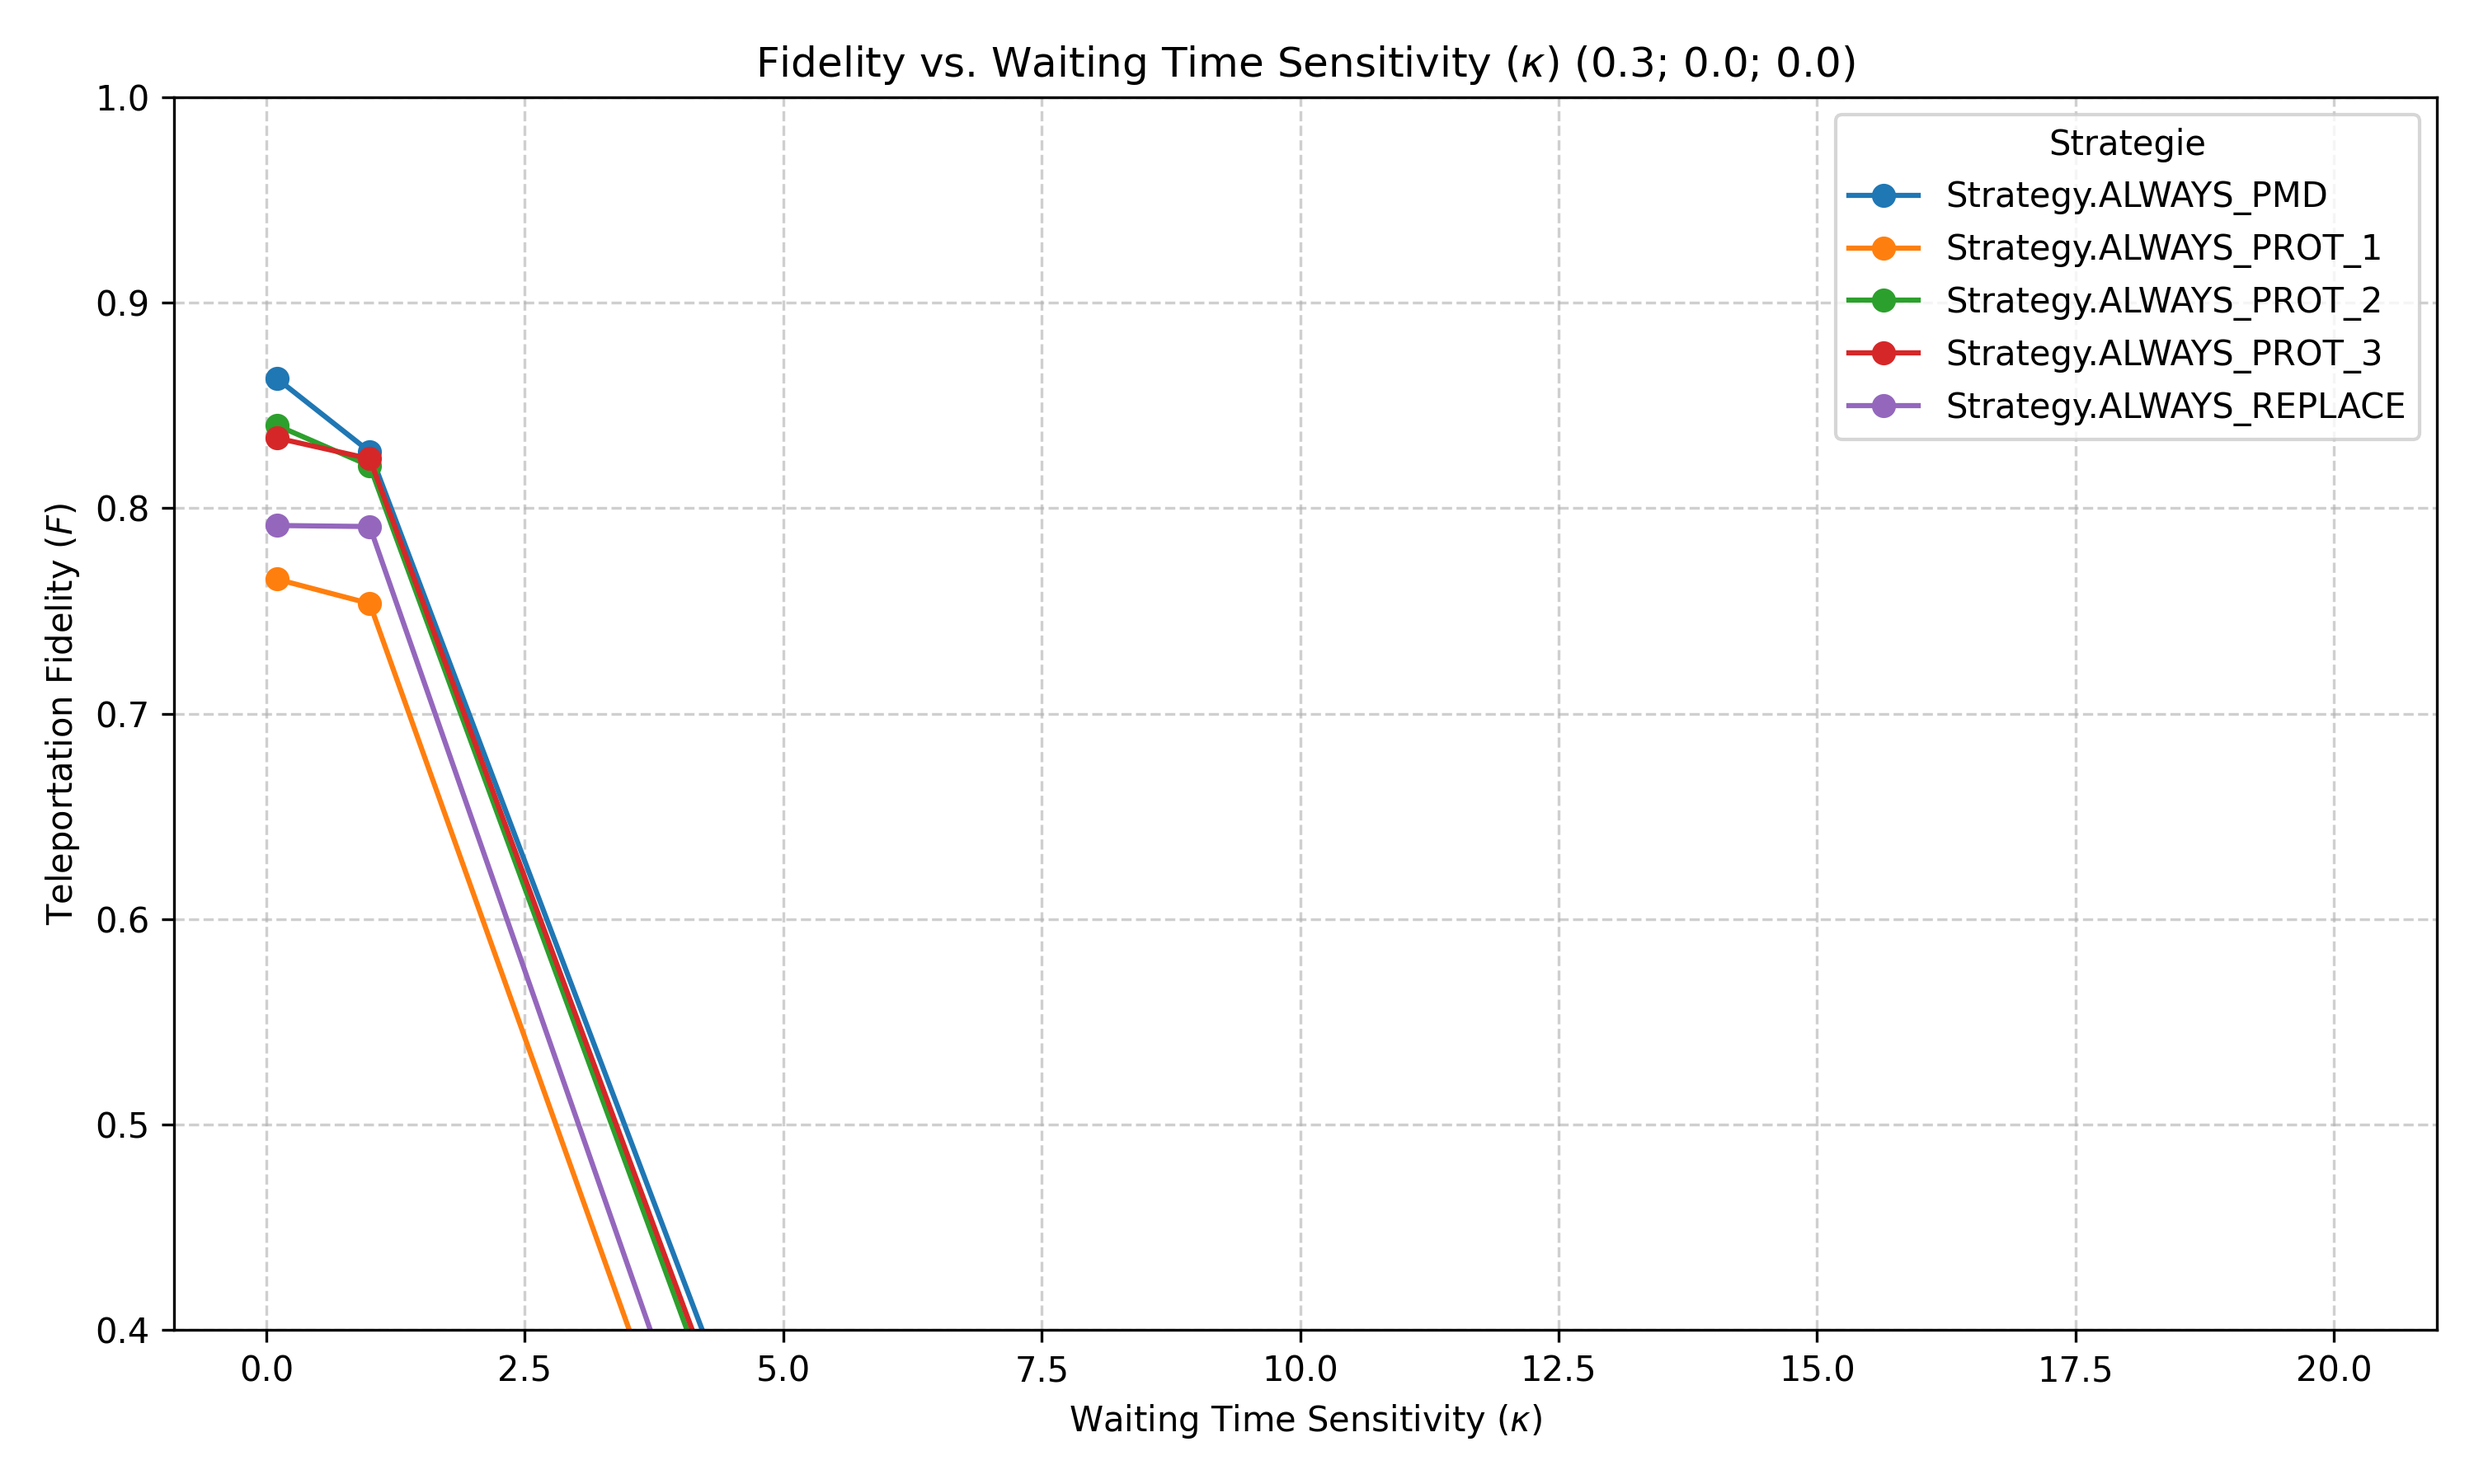
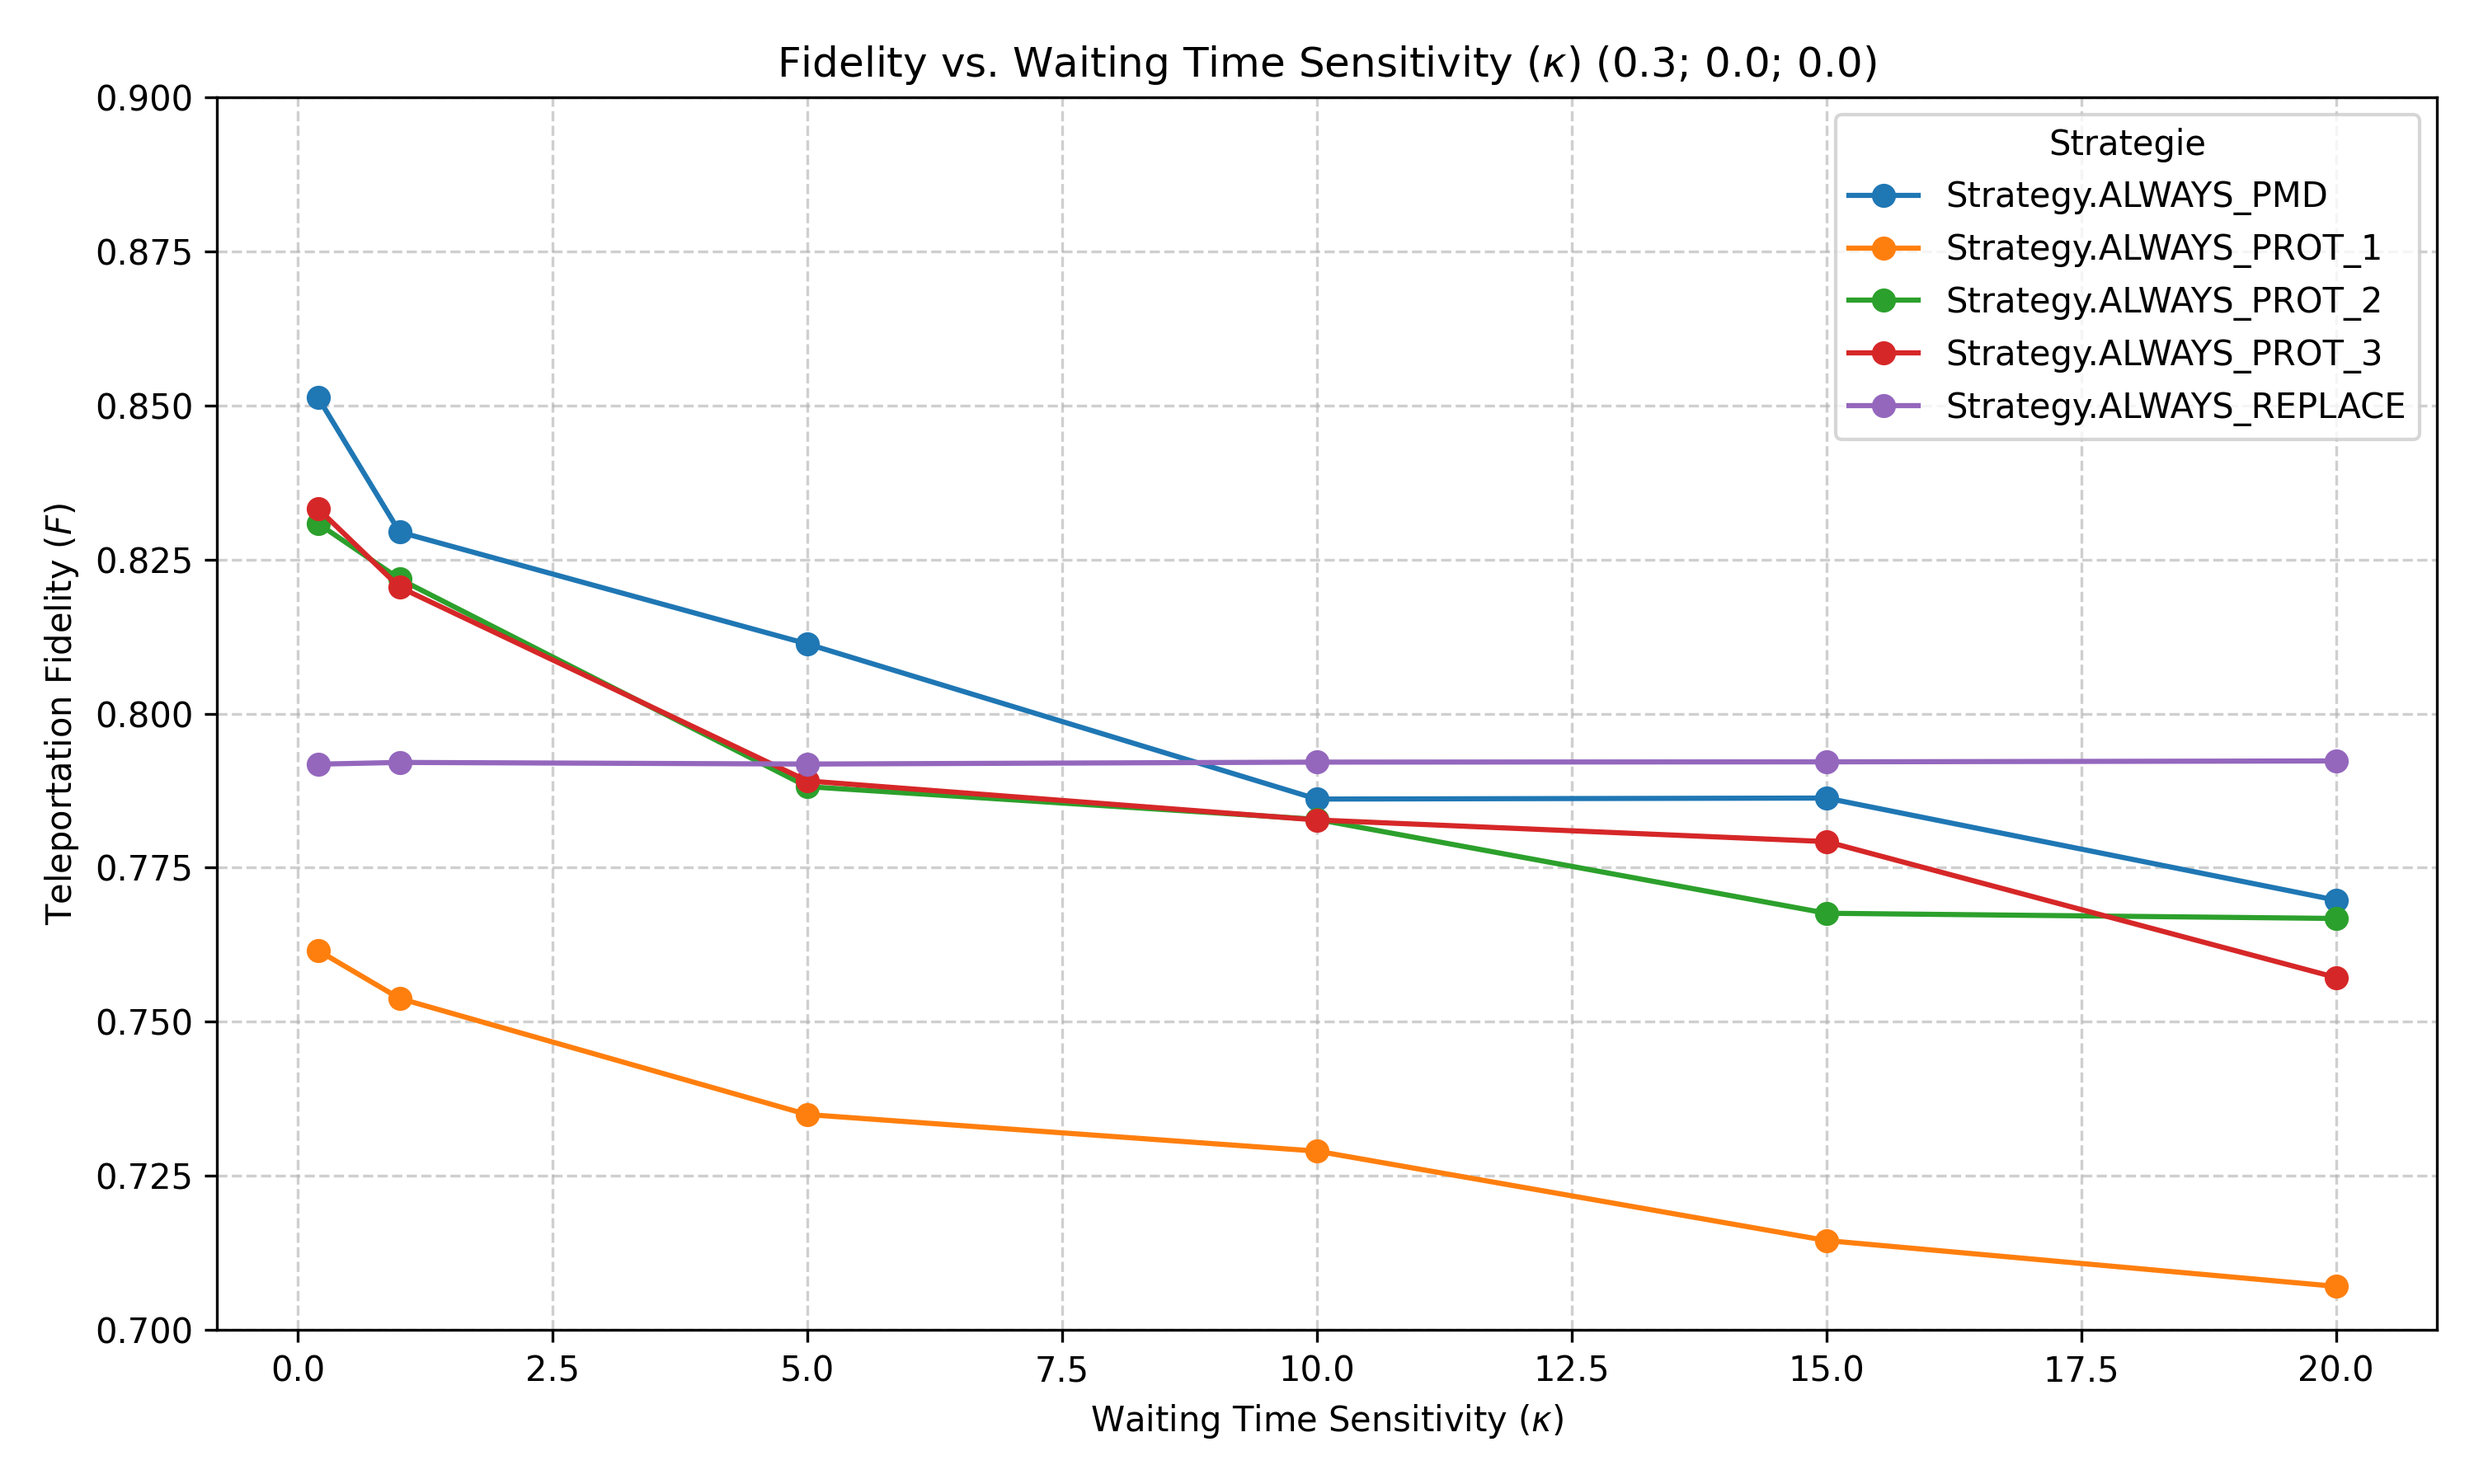
changed how waiting_time sensitivity is implemented

diff --git a/src/purify/my_constants.py b/src/purify/my_constants.py
@@ -1,8 +1,7 @@
-import math
-from purify.my_enums import Strategy
-from purify.utils.decibel_util import decibel_to_linear
 
-ENTANGLEMENT_GENERATION_COUNT = 100000
+from purify.my_enums import Strategy
+
+ENTANGLEMENT_GENERATION_COUNT = 500000
 
 LENGTH = 20000
 C = 2e8
@@ -17,24 +16,22 @@ ETA = -0.00015
 
 # P_G = decibel_to_linear(ETA * LENGTH)
 
-
-
 QUBIT_ENTANGLEMENT_FACTOR = 100
 
 QUBIT_ARRIVAL_SCALE = P_G/(QUBIT_ENTANGLEMENT_FACTOR * DELTA_T)
 
 
 WAITING_TIME_SENSIVITIES = [
-    0.1,
+    0.2,
     1,
     5,
     10,
     15,
-    20,
+    20
 ]
 
-LAMBDA_1 = 0.3
-LAMBDA_2 = 0.0
+LAMBDA_1 = 0.0
+LAMBDA_2 = 0.3
 LAMBDA_3 = 0.0
 
 
@@ -44,7 +41,7 @@ STRATEGIES = [
         Strategy.ALWAYS_PROT_1,
         Strategy.ALWAYS_PROT_2,
         Strategy.ALWAYS_PROT_3,
-        Strategy.ALWAYS_PMD,
+        # Strategy.ALWAYS_PMD,
     ]
 
 
@@ -64,7 +61,8 @@ DECOHERENCE_TIMES = [
          # 0.1,
         # 0.5
          # 1.0,
-    ]       
+    ]
+
 
 PUMPING_PROBABILTIES = [
     # 0.0,

diff --git a/src/purify/qubit.py b/src/purify/qubit.py
@@ -15,11 +15,11 @@ class Qubit:
         self.constants: ConstantsTuple = constants
 
     def get_current_fidelity(self) -> float:
-        current_time = (
-            self._time.get_current_time() * self.constants.waiting_time_sensitivity
-        )
-        time_alive = current_time - self.creationTime
-        logger.warning(f"waiting time: {time_alive}")
+        current_time = self._time.get_current_time()
+        time_alive = (
+            current_time - self.creationTime
+        ) * self.constants.waiting_time_sensitivity
+        logger.warning(f"Time Alive: {time_alive}")
         current_fidelity = (
             np.exp(-time_alive / self.constants.decoherence_time) + 2.0
         ) / 3.0

diff --git a/src/plot/waiting_time_curve_plot.py b/src/plot/waiting_time_curve_plot.py
@@ -58,7 +58,7 @@ def create_waiting_time_sensitivity_plot():
     plt.legend(title="Strategie")
     
     plt.xscale("linear") 
-    plt.ylim(0.4, 1.0) # Der Bereich kann an die Daten von Figur 3b (0.7 bis 0.9) angepasst werden
+    plt.ylim(0.7, 0.9) # Der Bereich kann an die Daten von Figur 3b (0.7 bis 0.9) angepasst werden
     plt.tight_layout()
 
     # Neuer Dateiname, der die Änderung widerspiegelt
